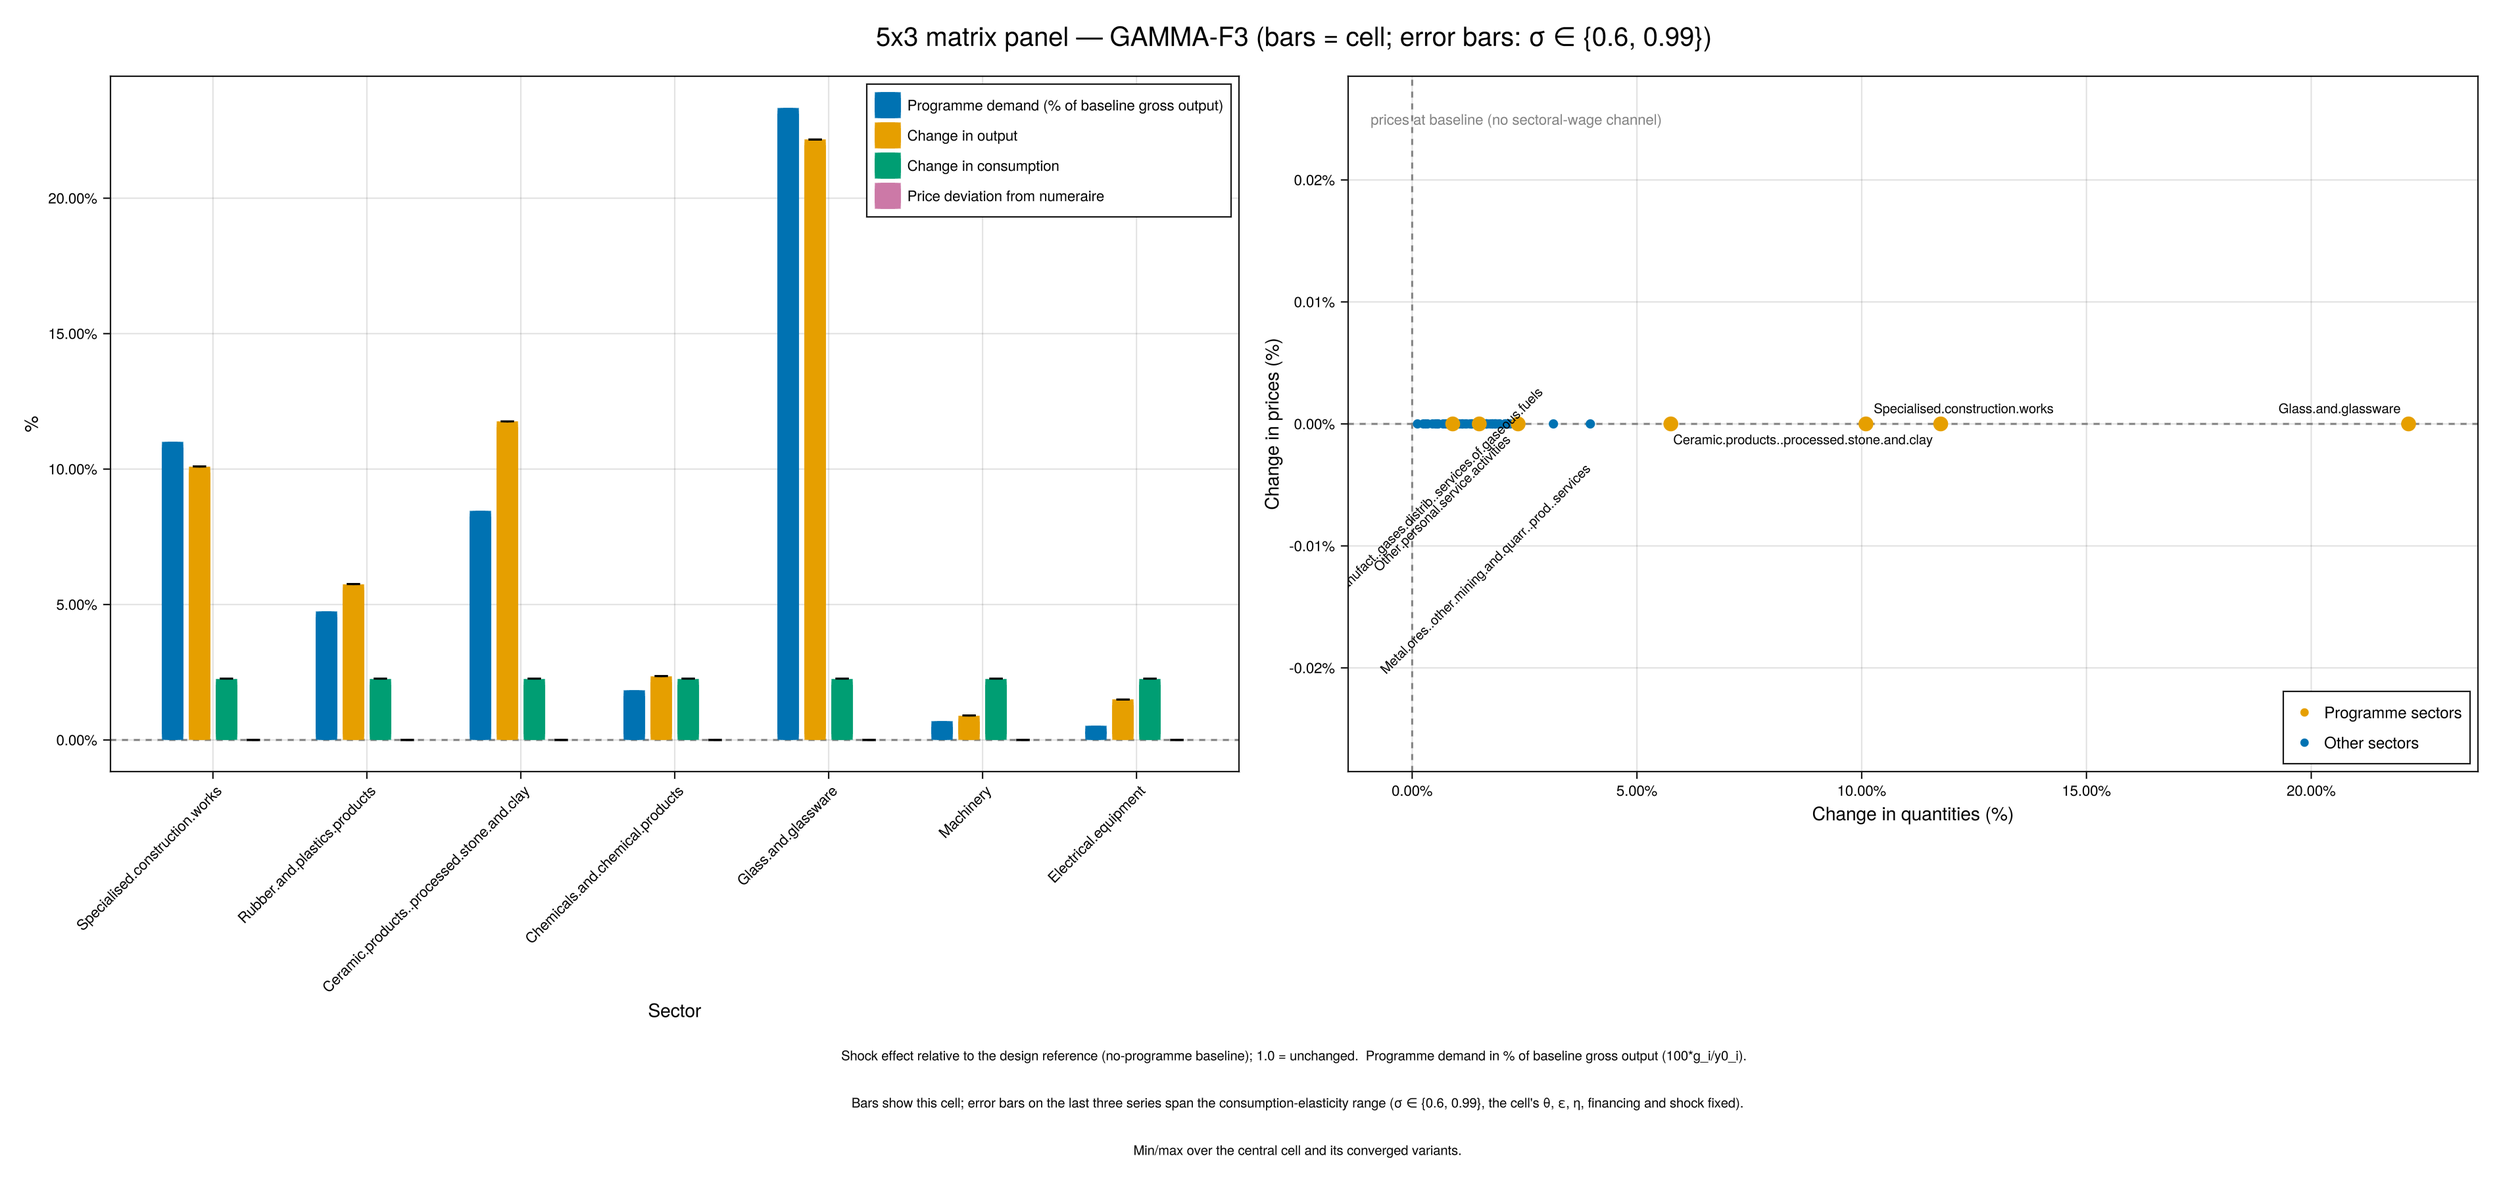
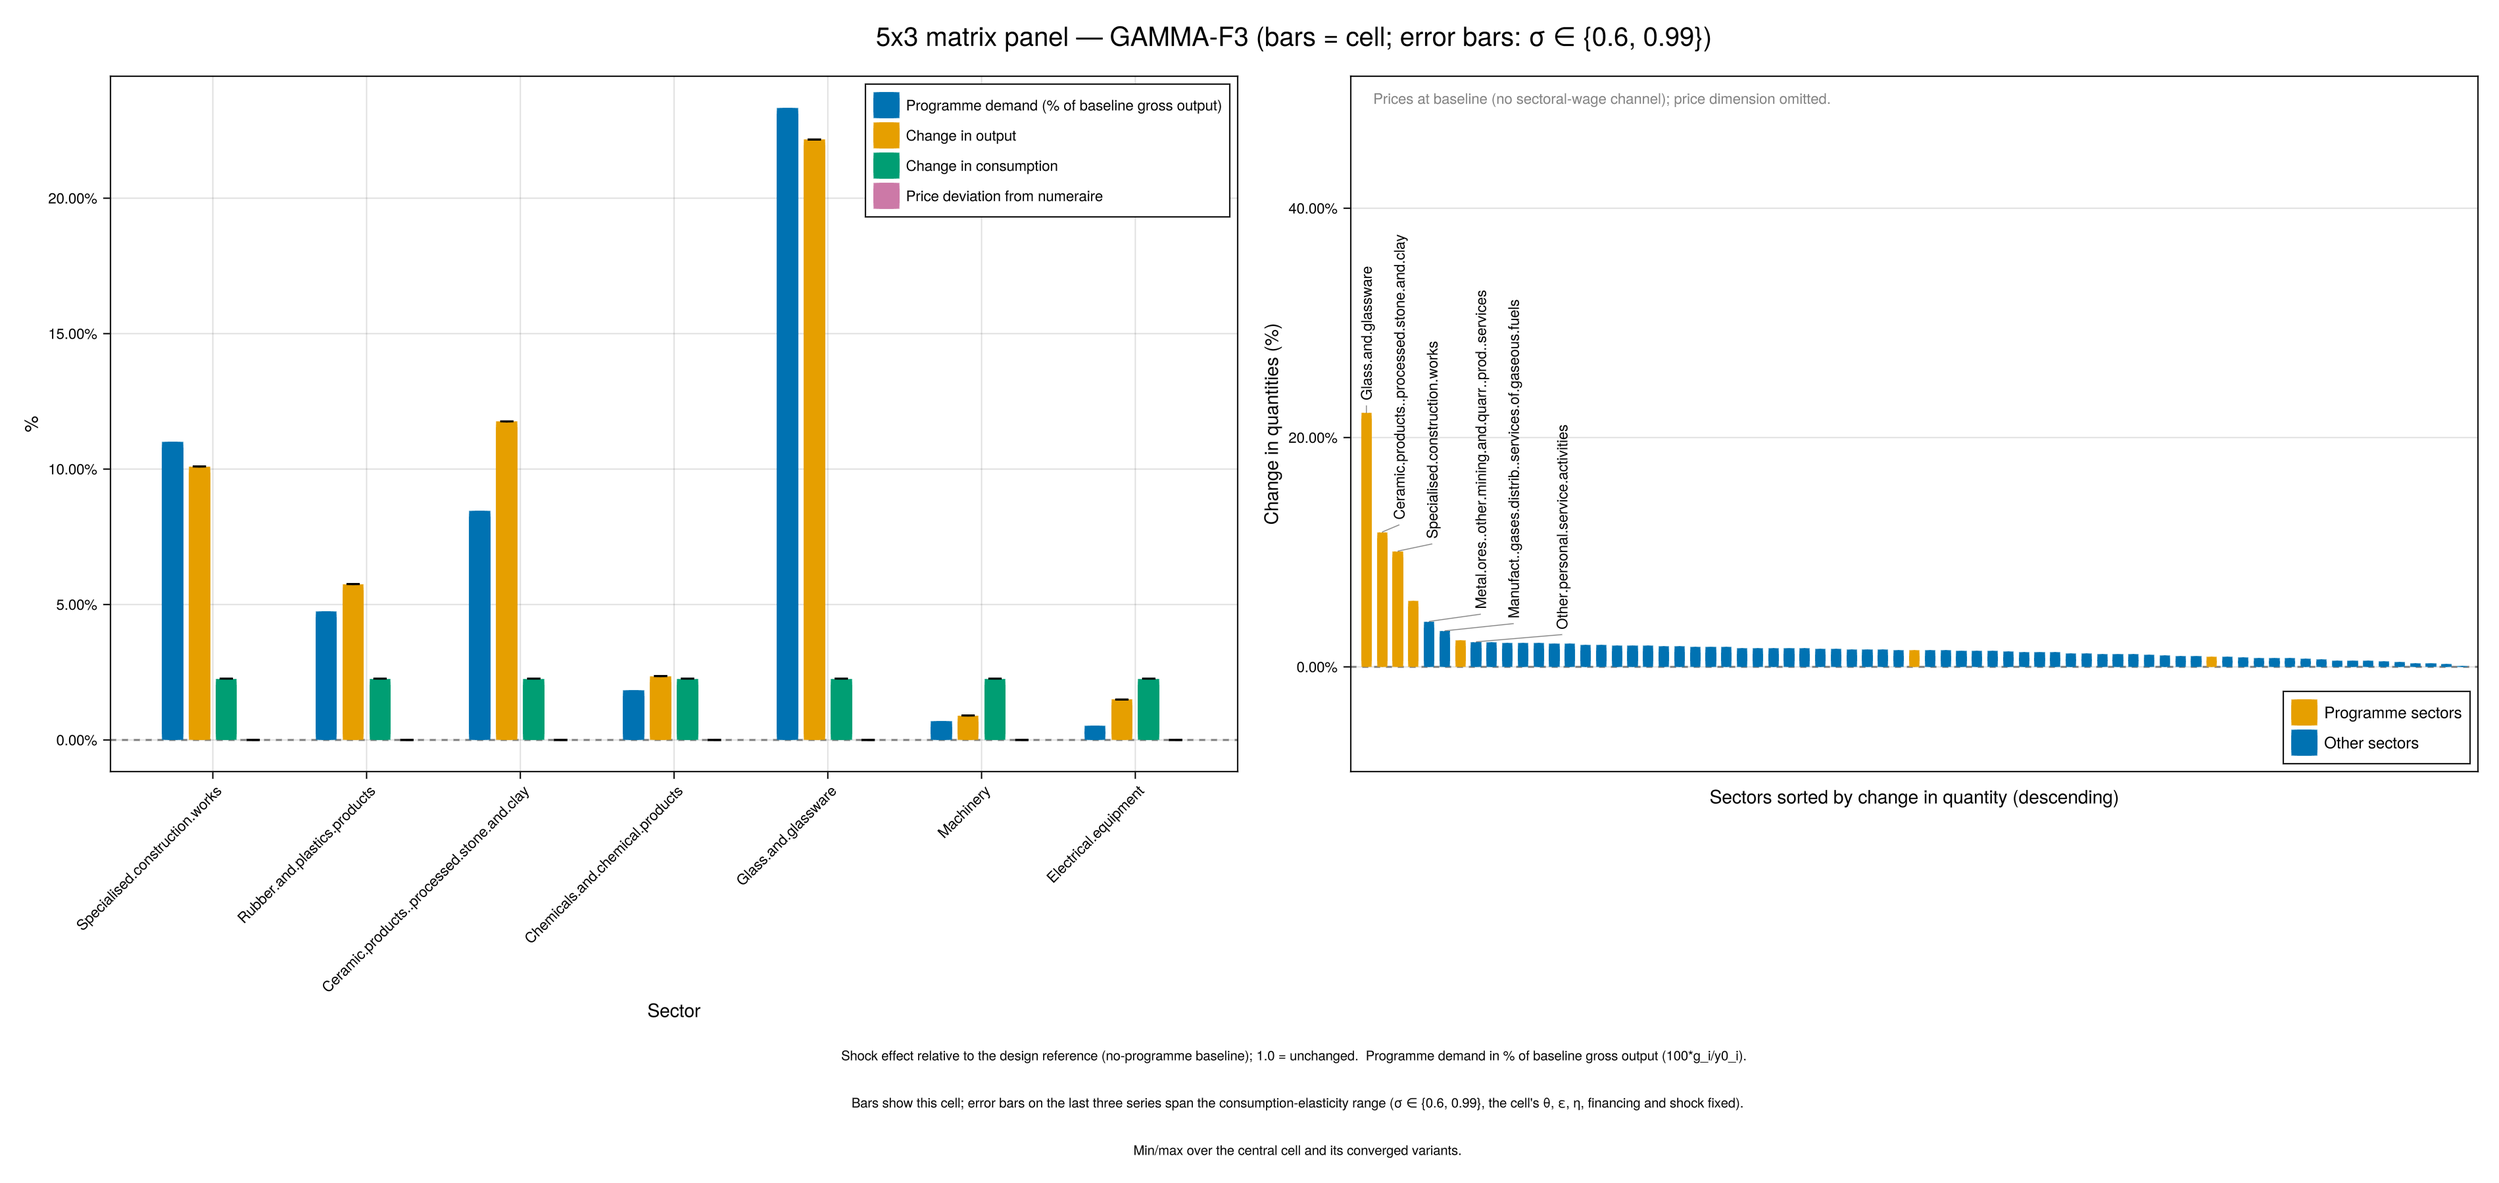
bar charts

diff --git a/docs/log/2026-09.md b/docs/log/2026-09.md
@@ -1749,3 +1749,87 @@ and the registry id are unchanged:
 **Addendum 4 — ADR-0023 executed: `supply_etas_s1` 63/63, all signatures hold (same session).** Implementation (commit `202837a`): `experiments/run.jl` gains the `[shock]` schema (`resolve_supply_shock`, kind none|sectoral|programme|uniform, per-cell magnitude/alpha override; `kind="none"` keeps manifests and scenarios rows byte-identical), wired into `build_cell_model`/`solve_cell`, with the resolved shock recorded in the manifest scenario block and the `shock`/`magnitude` columns of `registry/scenarios.csv`. Pre-flight on the full-71 A-bill reproduced the probe measurements (ALPHA w = 1.0049, L = 1; scalar BETA L = 1.002448 at eta_s = 0.5); `tests/test_run_manifest.jl` all green incl. the new supply testset (12/12). Design `supply_etas_s1.toml` (63 cells, matrix ratified by the operator: ALPHA control + scalar BETA eta_s {0.5,1,2,5} + sectoral uniform eta_s {0.5,2}, x F1/F2/F3 x A1 {1.1,1.2,1.3}); preregistration committed before any cell (`1cc4ab8`). Batch: **63/63 executed, all gates pass**. Verified from the manifests (NOT the wrapper): implied `ln L/ln w` recovers the input eta_s exactly (0.5/1/2/5 -> 0.5000/1.0000/2.0000/5.0000 at A1 = 1.2, F2) and is invariant to the magnitude ladder (spread < 1e-6); ALPHA pins L = 1, w = 1.0049; real GDP monotone in eta_s per column; **F2 = F3 financing neutrality extends to supply shocks**; the ADR-0019 canary is asserted at A != 1 on all 63 cells (all pass) — the ETAs gate that had only been tested at p = 1. Prices move through technology (max|p-1| = 0.196). Flow table `paper/tables/supply_etas_flows.md`; ETAs.md is now v4 (revisionV3). DOCS_ASSESSMENT section 4.2 write-up recorded for the manuscript pass (its revision palette has no colour beyond revisionV6). Remaining: `supply_etas_prog`, `supply_etas_unif`. Board and check_repo below; the v10 gate (33 runs missing log.txt in this tree) remains the operators' line.
 
 **Addendum 5 — the armed set complete: supply_etas_prog and supply_etas_unif executed (same session).** 126 cells (63+63), all executed, all gates pass (commits: prereg `3b2ac52`, kind fix `5b834cb` — the generator emitted `[shock] kind = "prog"/"unif"`, outside the ADR-0023 enum, so the first attempts errored outside the manifest before any run dir existed; re-preregistered — and run `e93a741`). Verified from the manifests: **prog** (A_i = 1 + alpha*psi_i on the programme's own sectors; alpha 0.05/0.10/0.20): w = 1.0046 at alpha 0.10, max|p-1| = 0.0625, implied eta_s exact (0.5/1/2/5); **unif** (A_i = 1.01/1.02/1.03): the real-wage experiment — w = 1.0408 at A = 1.02, real GDP up to +27% at eta_s = 5 (productivity is real output). All preregistered signatures hold for both: recovery and magnitude-invariance < 1e-3, ALPHA L = 1 control, F2 = F3 neutrality under supply shocks, canary asserted at A != 1 on all 126 cells. **The identification claim is now measured across three shock shapes (189 cells total).** Brighter revision-color cycle implemented per operator instruction (revisionV7..V12 = the six hues at higher brightness, defined in compile-all.zsh both blocks + the in-container header + both skills). ETAs.md is v5 (revisionV4); DOCS_ASSESSMENT.md is v8 (revisionV7) — version block, top summary, the finding-2 upgrade note (promoted from probe to executed generation), and the Revision Log entry. Flow tables: paper/tables/supply_etas_{prog,unif}_flows.md. Gates below; board warnings remain the pre-existing matrix_5x3_v10 set.
+
+## 2026-09-30 (hygiene) — the 189 supply-arm run journals reconstructed
+
+**Intent.** Restore this checkout's repository gate using the precedent-backed
+probe6 reconstruction, not re-execution: the supply-arm runs committed in
+`bc0b163` and `e93a741` had manifests but lacked their gitignored journals.
+The pre-batch gate reported 190 violations (189 missing journals plus the
+board warning gate).
+
+**What ran.** Extended `experiments/probes/probe6_reconstruct_run_journals.jl`
+to cover `supply_etas_s1`, `supply_etas_prog`, `supply_etas_unif` and the
+existing v10 journals, and to report missing/skipped covered journals in
+`--verify`. Checked the complete probe and `run.jl`'s `execute_cell`,
+`run_log`, and `gate_frag`, including the `202837a` shock-schema diff and
+the producing `e93a741` version (identical to the current `run.jl`). No
+per-cell journal grammar changed: start, reference consumption, then the
+three-gate summary. All 189 supply manifests carry full gates, executed
+status, and no error table; their no-shock reference parameters match v5.
+
+**Observation.** First `--verify`: 177 ok, 0 mismatch, 189 missing/skipped;
+`--write`: 189 journals written (63 per supply design), 177 existing
+journals skipped without overwriting; second `--verify`: 366 ok, 0 mismatch,
+0 missing/skipped (including 33 v10 journals). Both verifications skip the
+45 legacy v1-v3 journals. Caveats unchanged and documented: the reference
+value comes from a fresh continuation (1-3 ulp spread across generations),
+timestamps are the manifest write times, and the journals stay untracked
+by design. No verify mismatch or manifest anomaly was found.
+
+**Gate and containment.** `scripts/status.jl`: 417 scenarios, 0 warnings;
+`scripts/status.jl --check`: docs/status.md is up to date;
+`scripts/check_repo.jl`: 0 violations; `Pkg.test()`: tests passed.
+SHA-256 comparison of every pre-existing `runs/` file found no modification;
+the only new run files are the 189 supply journals. `git check-ignore`
+confirms `runs/supply_etas_s1-ALPHA-F1-a11/log.txt` is ignored, and no journal
+appears in `git status`. No manifest, index row, scenario row, solution,
+pre-existing journal, registry, kernel or test file was touched. The only
+tracked modifications are probe6, the regenerated `docs/status.md`, and
+this append-only log entry; nothing tracked outside probe6/status.md was
+modified apart from this required record. Nothing was committed.
+
+**Decision.** Follow the earlier reconstruction procedure under ADR-0004;
+retain working-artifact caveats, never rewrite a mismatching existing journal.
+
+**Next.** Orchestrator reviews the three tracked changes; journals remain
+gitignored working artifacts.
+
+## 2026-09-30 (figures) — quantity bars for the single-wage matrix panels
+
+**Intent.** Replace the redundant flat-price scatter in the twelve
+`matrix_5x3-v10-{ALPHA,BETA,GAMMA,DELTA}-{F1,F2,F3}` manuscript panels,
+preserving the three `matrix_5x3-v10-BF-*` panels and the working scatter API.
+
+**What ran.** Added `right = :auto | :bars | :scatter` in
+`ext/matrix_plots.jl`; `:auto` selects sorted all-sector quantity bars for
+the four single-wage closures and scatter otherwise. Iterated stored-solution
+previews under `/tmp/opencode` for ALPHA-F1, DELTA-F3 and GAMMA-F2, with a
+BF-F1 scatter preview. Ran `experiments/plot_matrix.jl --design matrix_5x3_v10
+--no-figures --panel-dir revised_manuscript/pictures --cells ...` for exactly
+the twelve single-wage cells, then the same driver for the three BF cells
+with `--panel-dir /tmp/opencode/bf_check`. GLMakie 0.13.13 was loaded from a
+scratch environment via `JULIA_LOAD_PATH`, without changing `Project.toml`.
+
+**Observation.** The driver validated 12/12 and 3/3 cells, respectively,
+with zero price, quantity and metric deltas; all sigma variants converged.
+SHA-256 comparison against the pre-batch record finds exactly twelve PNGs
+changed and three unchanged. The independently regenerated BF PNGs are also
+byte-identical to the manuscript originals. Inspected ALPHA-F1, BETA-F2,
+GAMMA-F3 and DELTA-F1: the six vertical mover labels are separated, inside
+the axes, clear of the gray note and legend; orange programme sectors stand
+out against the blue others. Scratch API/geometry checks passed (47
+assertions plus invalid-keyword checks); `Pkg.test()` passed.
+Post-batch `scripts/check_repo.jl` reports zero violations,
+`scripts/status.jl --check` reports up to date, and `git diff --check` is clean.
+
+**Decision.** Keep the original scatter drawing, shared title, left panel,
+figure size and footnotes untouched. Quantity bars retain the original
+sector-group colours and legend, with three largest absolute quantity movers
+per group, inward-staggered vertical labels and short tip connectors; extra
+headroom prevents long names from clipping. Document the split and the
+twelve-cell regeneration command; `src/plots.jl` changes are docstrings only.
+No run, registry or model state changed, and nothing was committed.
+
+**Next.** Review the figure changes and the plotting API alongside the
+byte-identity evidence; continue citing the recorded v10 run ids.

diff --git a/paper/to_evaluate/possible_plots.md b/paper/to_evaluate/possible_plots.md
@@ -82,18 +82,25 @@ recreated for the 5x3 matrix as one file per matrix cell —
   series span the **consumption-elasticity range**: min/max over the central cell
   and its two σ variants (σ ∈ {0.6, 0.99}, the cell's θ, ε, η, financing and
   shock fixed; no error bar when no variant converged);
-- right: scatter of change in quantities (`100*(q_i-1)`, x) vs change in prices
-  (`100*(p_i-1)`, y) over all sectors of the cell — programme sectors highlighted
-  with larger markers, other sectors plain; the three largest programme-sector
-  points plus the three largest non-programme movers labelled; 0/0 dashed cross;
-  legend "Programme sectors" / "Other sectors".
+- right: for ALPHA/BETA/GAMMA/DELTA, bars for all 71 sectors sorted by quantity
+  change descending, height `100*(q_i-1)`; prices are pinned at baseline (no
+  sectoral-wage channel), so the price dimension is omitted and a gray note
+  names this omission. The three largest programme and three largest other
+  movers by absolute quantity change have vertical sector-name labels at the
+  tips, staggered inward with short connectors; no sector-name x ticks.
+  BF retains the quantity/price scatter (`100*(q_i-1)`, x; `100*(p_i-1)`, y),
+  larger programme markers, the three largest movers in each group labelled
+  by `max(|Δq|, |Δp|)`, and the 0/0 dashed cross.
+  Both paths retain orange programme sectors and blue other sectors (Makie's
+  `wong_colors()`), legend "Programme sectors" / "Other sectors".
 
 Conventions: bars show the cell, error bars the σ sensitivity (the legacy
 `panel_ls` meaning — not the financing range); each file is standalone with
-per-cell axis limits. Degenerate scatter ranges get a minimum span (0.05 %
-total) with an annotation — prices sit at the baseline in every single-wage
-closure (no sectoral-wage channel), so without it the y-axis would repeat
-"0.00%" ticks. Titles read
+per-cell axis limits. `plot_matrix_panel` and `save_matrix_panels` accept
+`right = :auto | :bars | :scatter`: the default selects quantity bars for
+the four single-wage closures and scatter for BF; the other values force
+either working path. Forced degenerate scatter ranges retain their minimum
+span (0.05 % total) and baseline annotation. Titles read
 "5x3 matrix panel — \<labour\>-\<financing\> (bars = cell; error bars: σ ∈ {0.6, 0.99})", and
 each figure footnotes the design reference (no-programme) baseline, the
 programme-demand normalisation, and the elasticity error-bar meaning.
@@ -106,6 +113,12 @@ see Table 2 of
 
 ```bash
 julia --project=. experiments/plot_matrix.jl --design matrix_5x3_v10 --no-figures --panel-dir revised_manuscript/pictures
+```
+
+Regenerate only the twelve bar-panel files, preserving the three BF files:
+
+```bash
+julia --project=. experiments/plot_matrix.jl --design matrix_5x3_v10 --no-figures --panel-dir revised_manuscript/pictures --cells matrix_5x3-v10-ALPHA-F1,matrix_5x3-v10-ALPHA-F2,matrix_5x3-v10-ALPHA-F3,matrix_5x3-v10-BETA-F1,matrix_5x3-v10-BETA-F2,matrix_5x3-v10-BETA-F3,matrix_5x3-v10-GAMMA-F1,matrix_5x3-v10-GAMMA-F2,matrix_5x3-v10-GAMMA-F3,matrix_5x3-v10-DELTA-F1,matrix_5x3-v10-DELTA-F2,matrix_5x3-v10-DELTA-F3
 ```
 
 (needs GLMakie; `--no-figures` suppresses only the six exploratory figures while the

diff --git a/docs/log/2026-10.md b/docs/log/2026-10.md
@@ -250,3 +250,37 @@ the four reverted doc edits can be re-applied and committed; then a single commi
 for the doc consolidation (ADR-0026, ADR-0027, the three archives, the
 reference fixes) and a separate commit for the two Phase-4 tests. The stale
 `DOCS_ASSESSMENT.pdf` / `narrative_outline.pdf` remain Mac re-export candidates.
+
+## 2026-10-05 — Finish the interrupted rebase, preferring incoming changes
+
+**Intent.** Resolve the pull/rebase interruption on `reorg`, preferring the
+incoming `origin/reorg` changes (`f7682c7`) where the two sides conflict.
+
+**What ran.** The working tree and index were clean, but the rebase remained
+open after the resolved detached commit `afdc503` was created and HEAD was
+switched back to the original `f5f5869`. Preserved both commits as
+`backup/reorg-before-conflict-fix-20261005` and
+`backup/reorg-resolved-rebase-20261005`, then restored the detached resolved
+commit. A read-only merge-tree check identified conflicts only in
+`docs/status.md` and `experiments/probes/probe6_reconstruct_run_journals.jl`.
+Kept the incoming probe conflict hunks and the non-conflicting changes;
+the status board is regenerated rather than manually merged.
+
+**Observation.** The restored commit already carries the incoming manuscript
+and documentation reorganisation, plus the non-conflicting bar-chart code
+and figures at their incoming paths. The pre-batch repository gate reported
+zero violations. Post-resolution verification: `scripts/status.jl` reports
+zero warnings, `scripts/status.jl --check` is current, `scripts/check_repo.jl`
+reports zero violations, and `Pkg.test()` passes. The probe's read-only
+`--verify` reports 177 matching journals, zero mismatches and zero missing
+covered journals. No unmerged index entries or conflict markers remain;
+`git diff --check` is clean. Code and figures outside the conflict files
+are unchanged from the preserved resolved commit.
+
+**Decision.** Amended the resolved commit and completed the existing rebase
+instead of starting another merge. `reorg` now descends from the incoming
+`origin/reorg` tip. No closure, scenario, manifest, preregistration or
+freeze-policy change.
+
+**Next.** Operator reviews the result and decides whether to push. No push
+was performed.

diff --git a/experiments/README.md b/experiments/README.md
@@ -212,14 +212,20 @@ julia --project=. experiments/plot_matrix.jl --design matrix_5x3_v10 [--cells id
   Each file pairs grouped bars over the programme sectors for that cell
   (programme demand in % of baseline gross output, change in output, change
   in consumption, price deviation from the numeraire) with a
-  quantity/price scatter over all its sectors; each file is standalone with
+  quantity bar chart over all sectors sorted descending for ALPHA/BETA/GAMMA/DELTA
+  (prices pinned at baseline, price dimension omitted), or the unchanged
+  quantity/price scatter for BF. `right = :auto` selects this split;
+  `right = :bars` / `:scatter` force either path in the plotting API.
+  Each file is standalone with
   per-cell axis limits. Error bars on the last three bar series span the
   consumption-elasticity range: the min/max over the central cell and its
   two σ variants (σ ∈ {0.6, 0.99}, the cell's θ, ε, η, financing and shock
   fixed; a variant solve/gate failure is reported and omitted, so the bars
-  span the remaining variants). Degenerate scatter ranges (prices sit at
-  the baseline in the single-wage closures) get a minimum span with an
-  annotation instead of repeated "0.00%" ticks.
+  span the remaining variants). Quantity bars label the three largest
+  programme and three largest other movers by absolute quantity change;
+  both right-panel paths retain the orange/blue sector grouping and legend.
+  Forced degenerate scatter ranges retain a minimum span with an annotation
+  instead of repeated "0.00%" ticks.
   `--panel-dir` loads GLMakie on its own and combines with `--no-figures`
   (which suppresses only the six standard exploratory figures).
 

diff --git a/docs/status.md b/docs/status.md
@@ -1,7 +1,7 @@
 # Status Board
 
 <!-- volatile:start -->
-Generated 2026-10-04 by `scripts/status.jl` · branch `reorg` · HEAD `d1d18c2` (dirty)
+Generated 2026-10-05 by `scripts/status.jl` · branch `reorg` · HEAD `cc786f0` (dirty)
 <!-- volatile:end -->
 
 > Single source of truth: `registry/` (closures.toml, scenarios.csv, freeze.toml).
